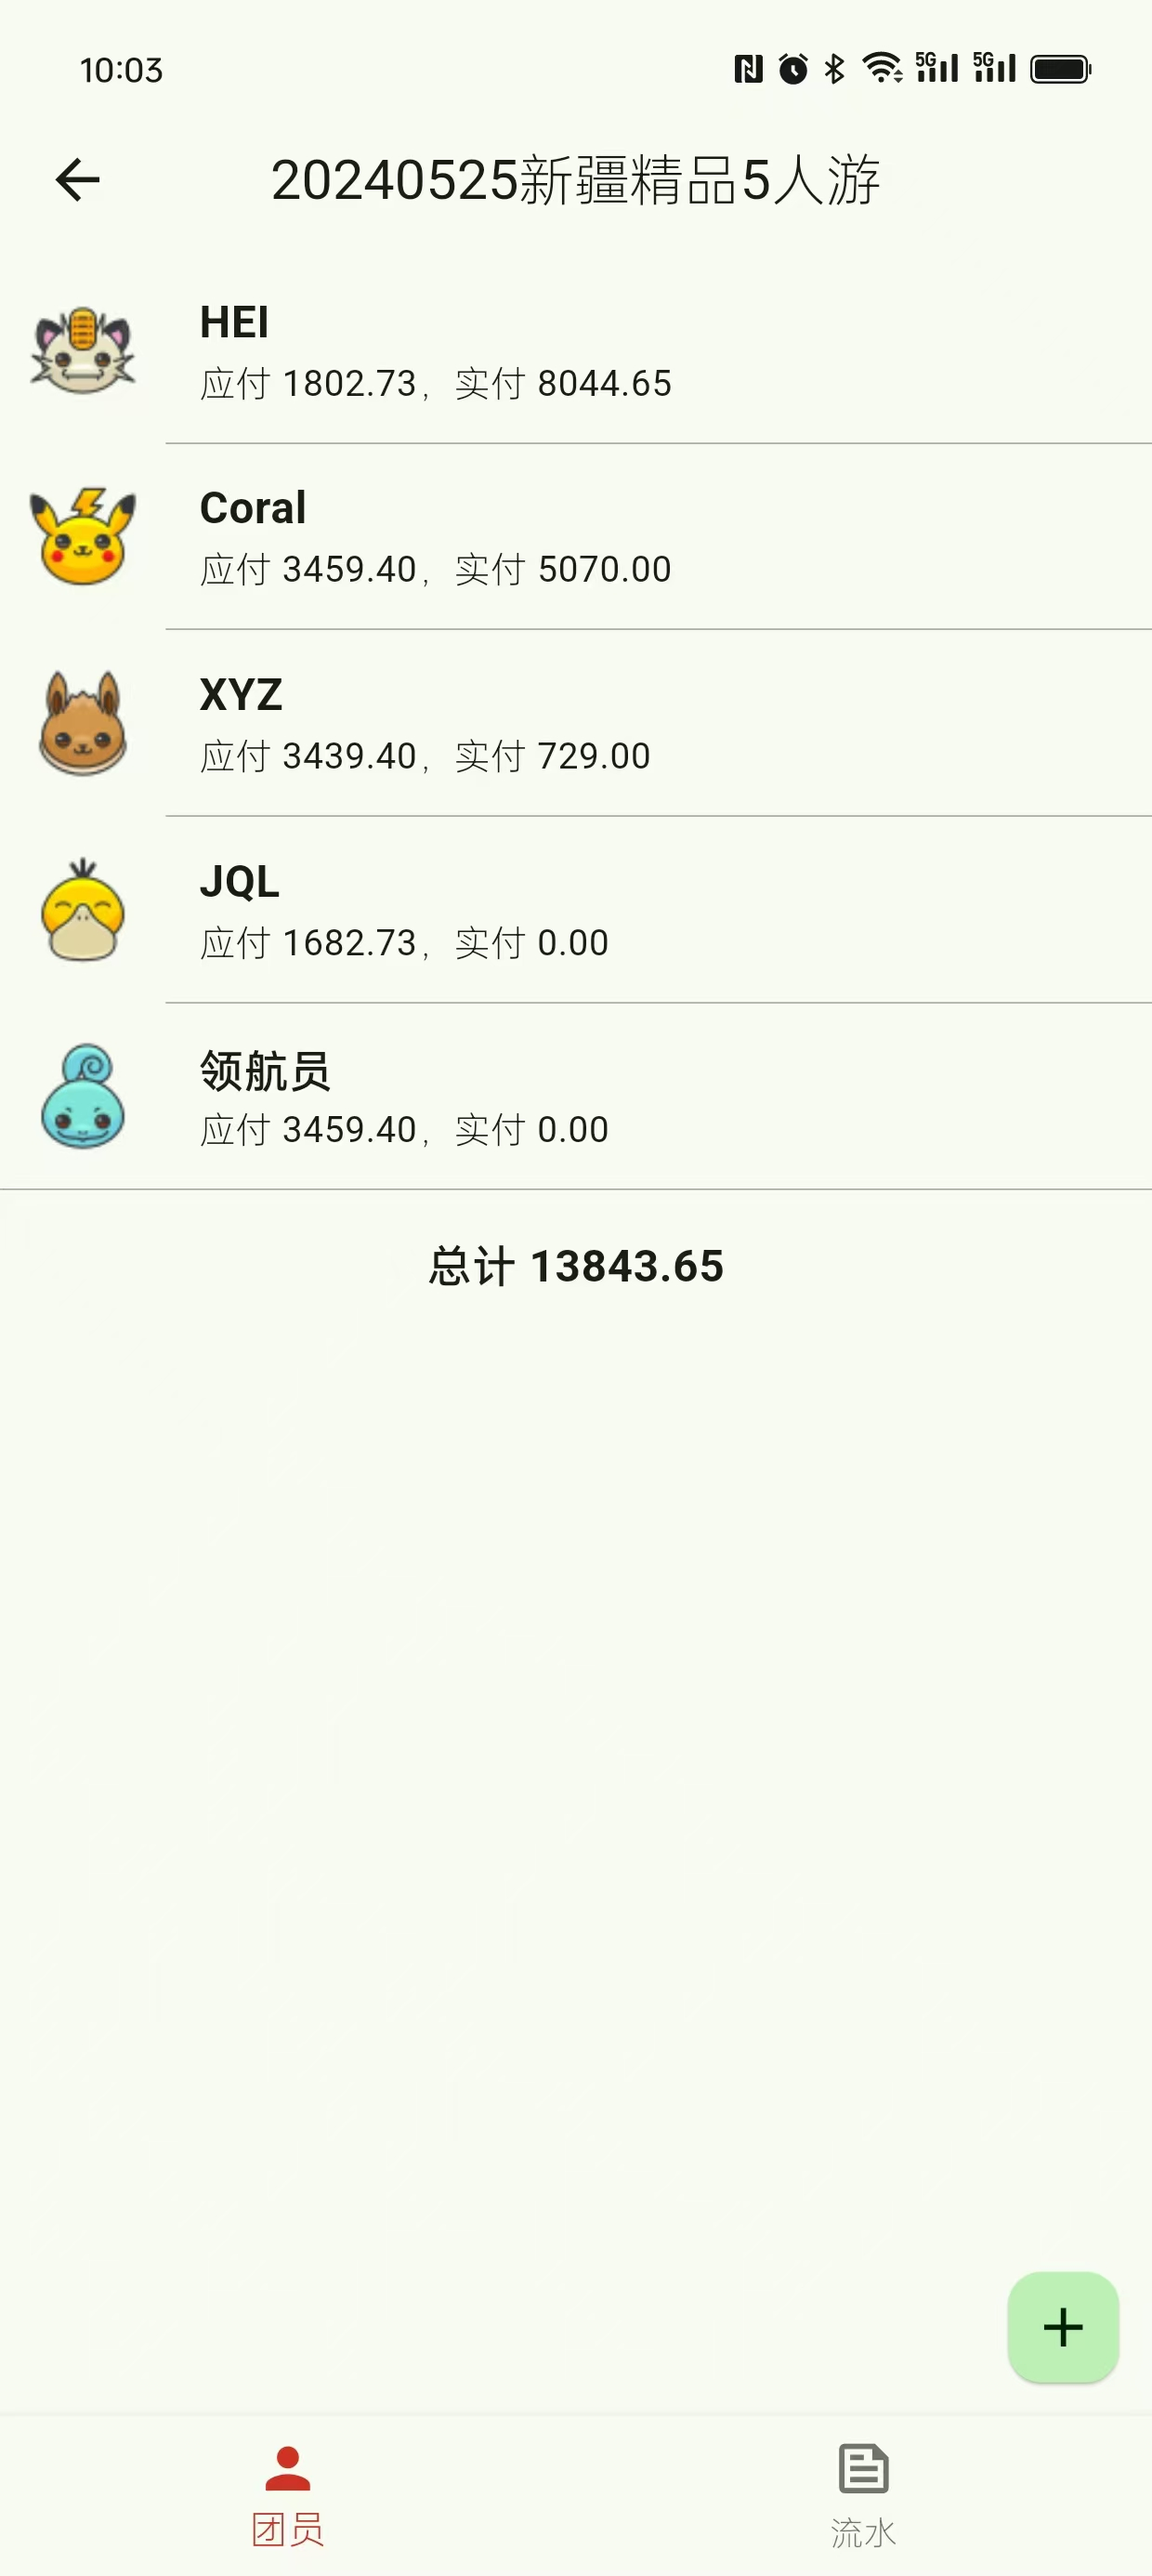
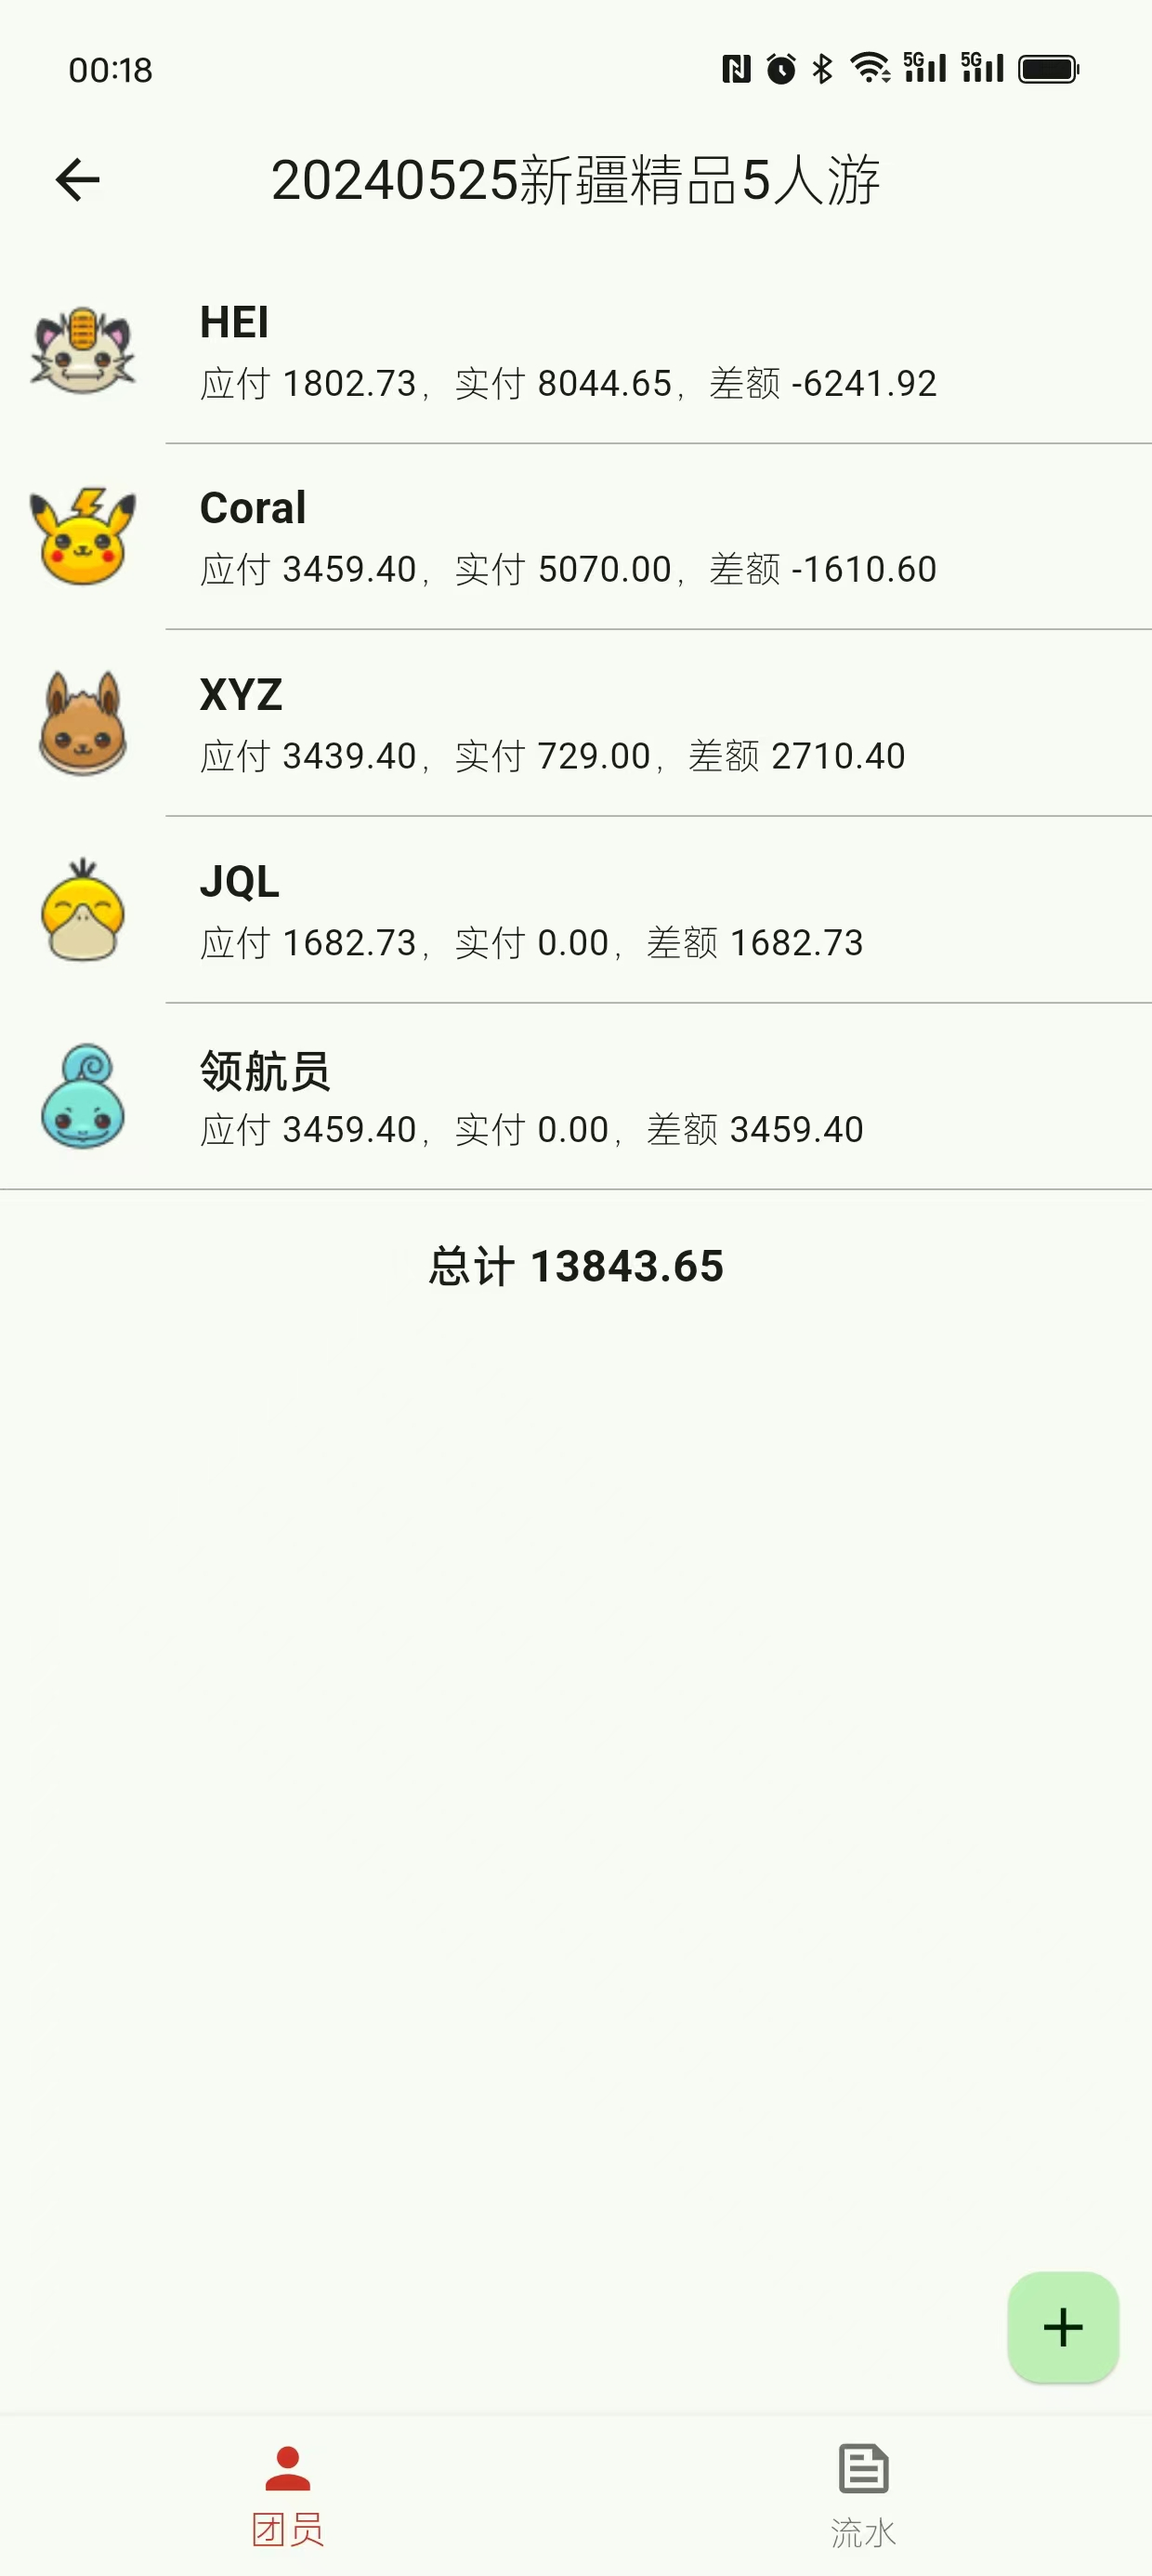
add pay payAct diff

diff --git a/lib/views/trip_user_view.dart b/lib/views/trip_user_view.dart
@@ -196,7 +196,7 @@ class _TripUserListPageState extends State<TripUserListPage> {
                                 ),
                                 const SizedBox(height: 1),
                                 Text(
-                                  "应付 ${item.pay.toStringAsFixed(2)}，实付 ${item.payAct.toStringAsFixed(2)}",
+                                  "应付 ${item.pay.toStringAsFixed(2)}，实付 ${item.payAct.toStringAsFixed(2)}，差额 ${(item.pay - item.payAct).toStringAsFixed(2)}",
                                   style: const TextStyle(
                                     fontSize: 13,
                                   ),
